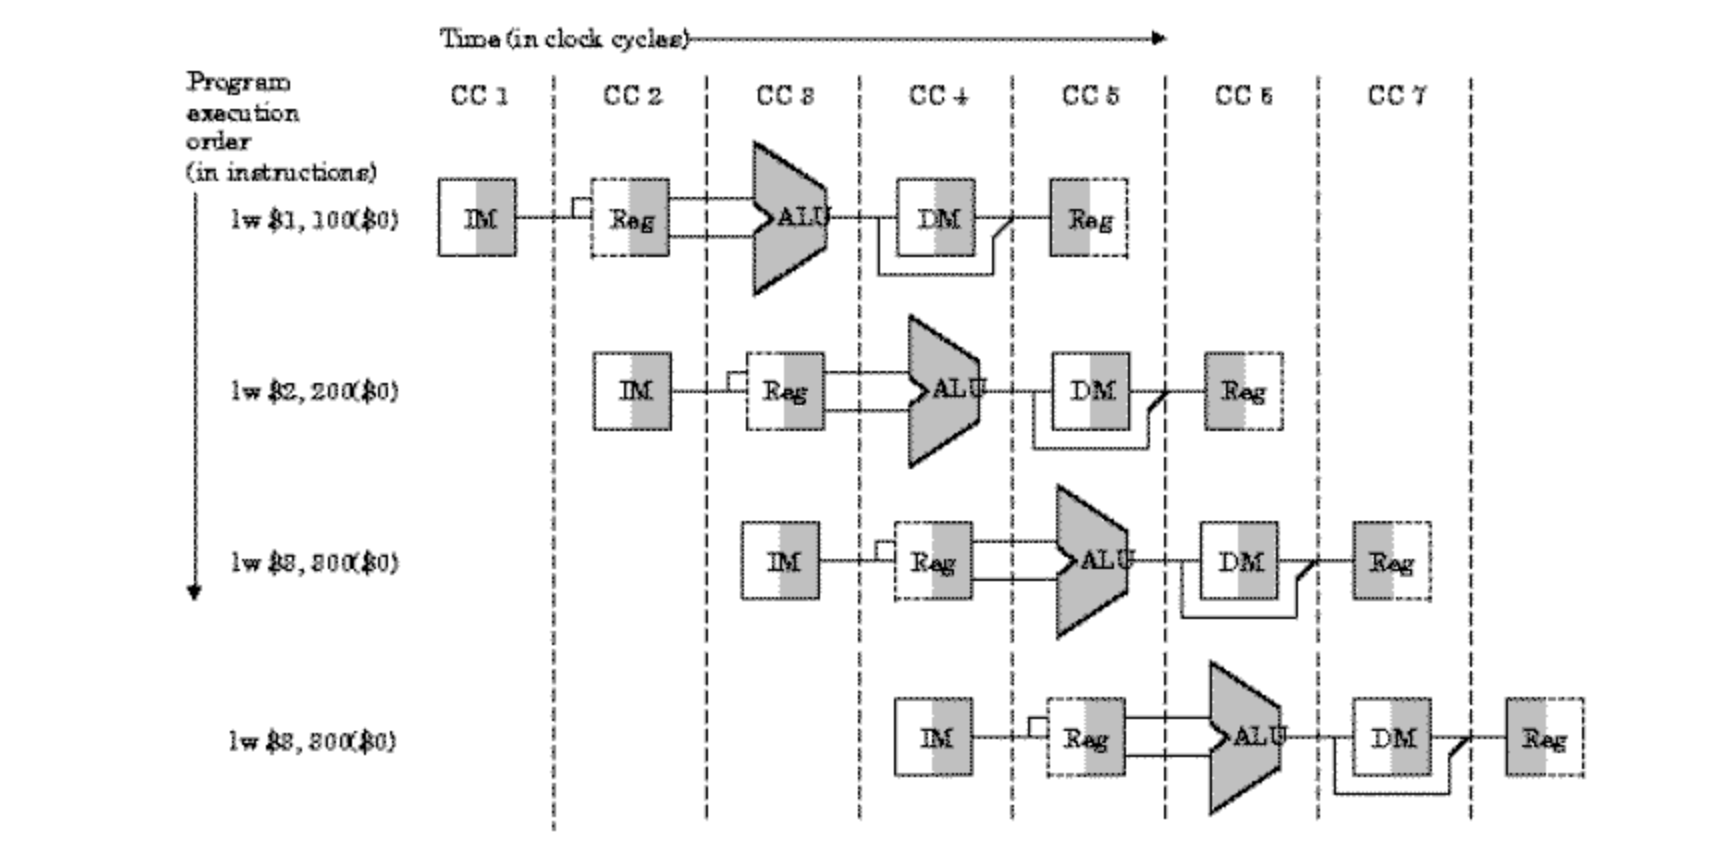
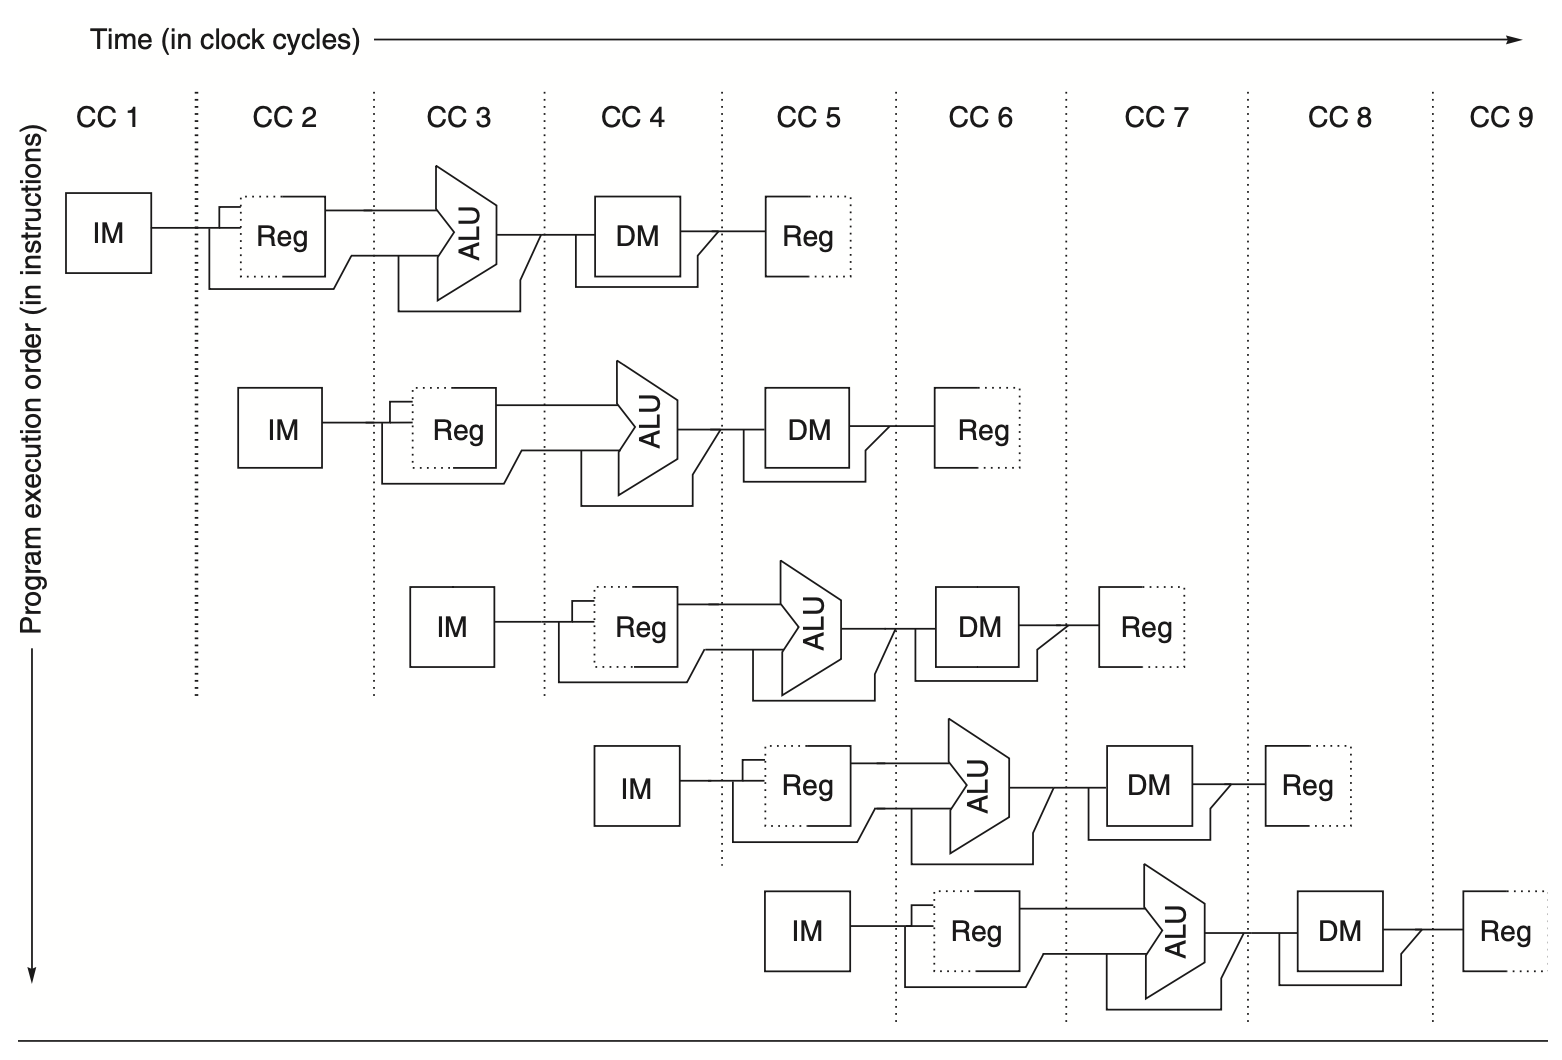
Update README

diff --git a/AVX/README.md b/AVX/README.md
@@ -1,4 +1,4 @@
-# SIMD Vectorization, Matrix Algorithms, and AVX-512 Intrinsics
+# SIMD Vectorization, Matrix Algorithms, AVX-512 Intrinsics, and CPU Data Pipelines
 
 ## Abstract
 This project seeks to improve upon standard C matrix multiplication algorithms shown in the **C_Matrix** project by using the AVX-512 instruction set. I used these instructions to SIMD vectorize my matrix operations in various ways to efficiently use cache locality and fully utilize the comparative speed of registers. As a result, I did infact create algorithms that are faster than previous tries.
